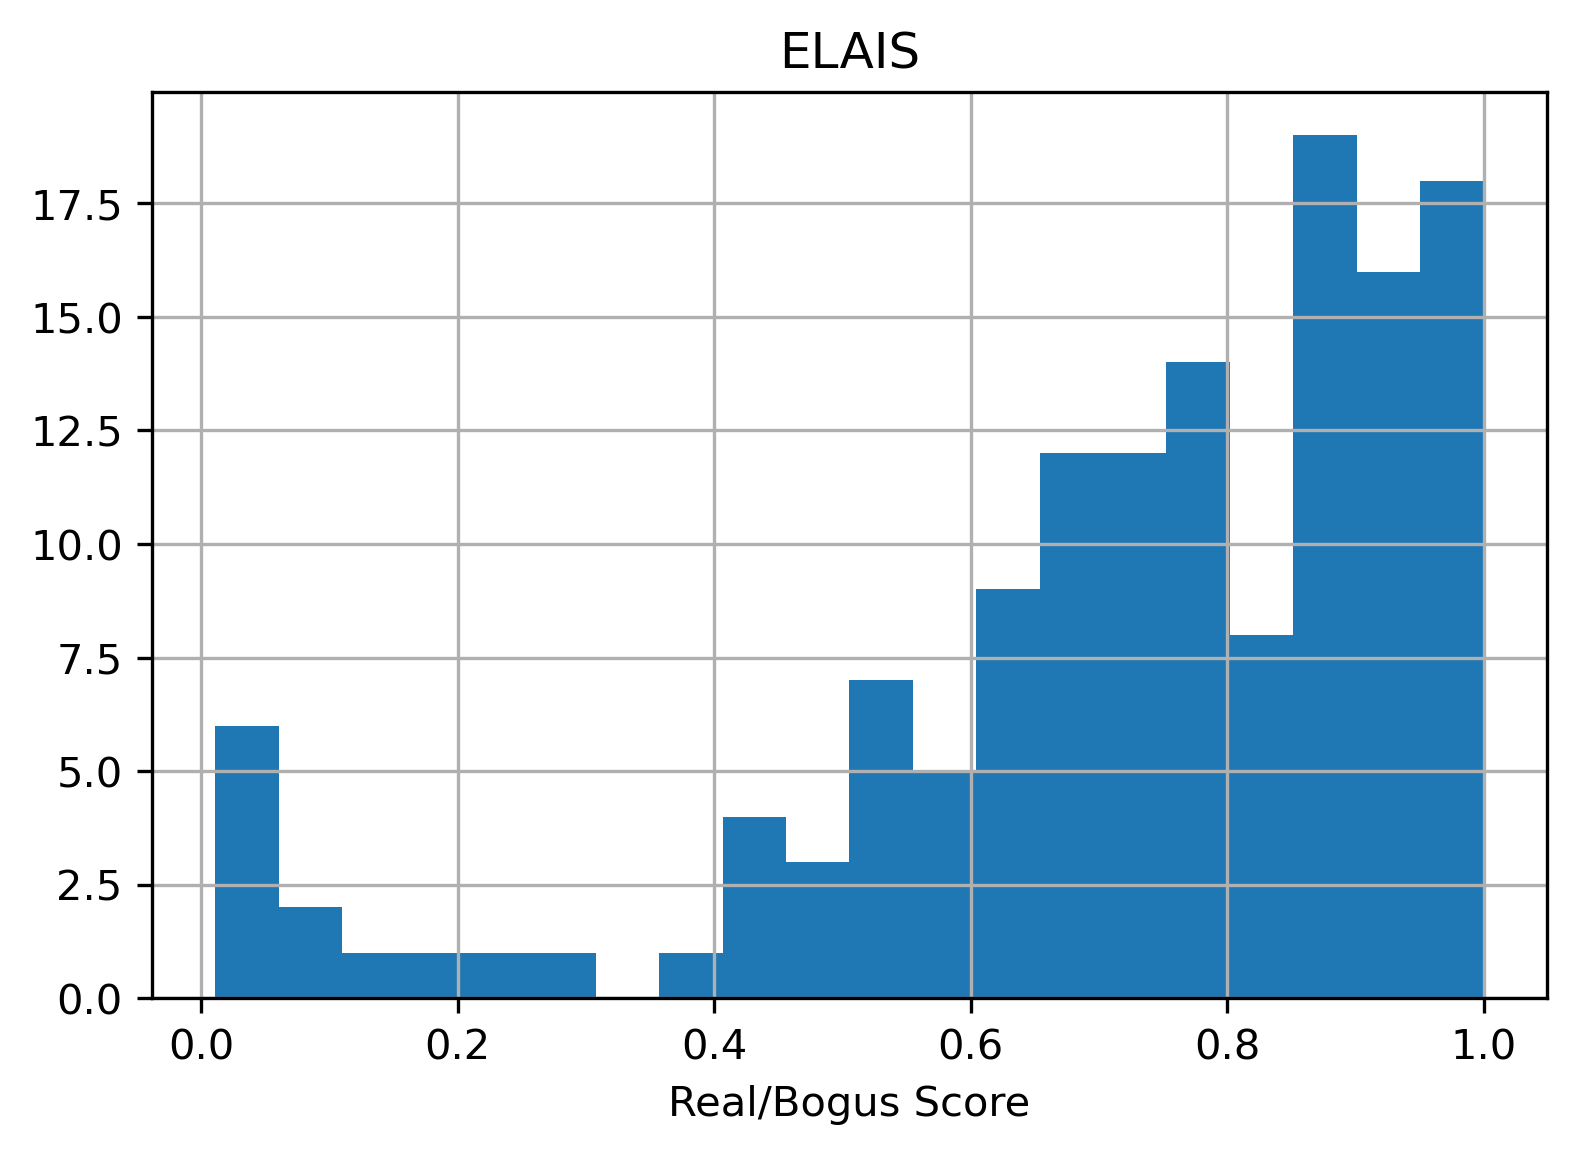
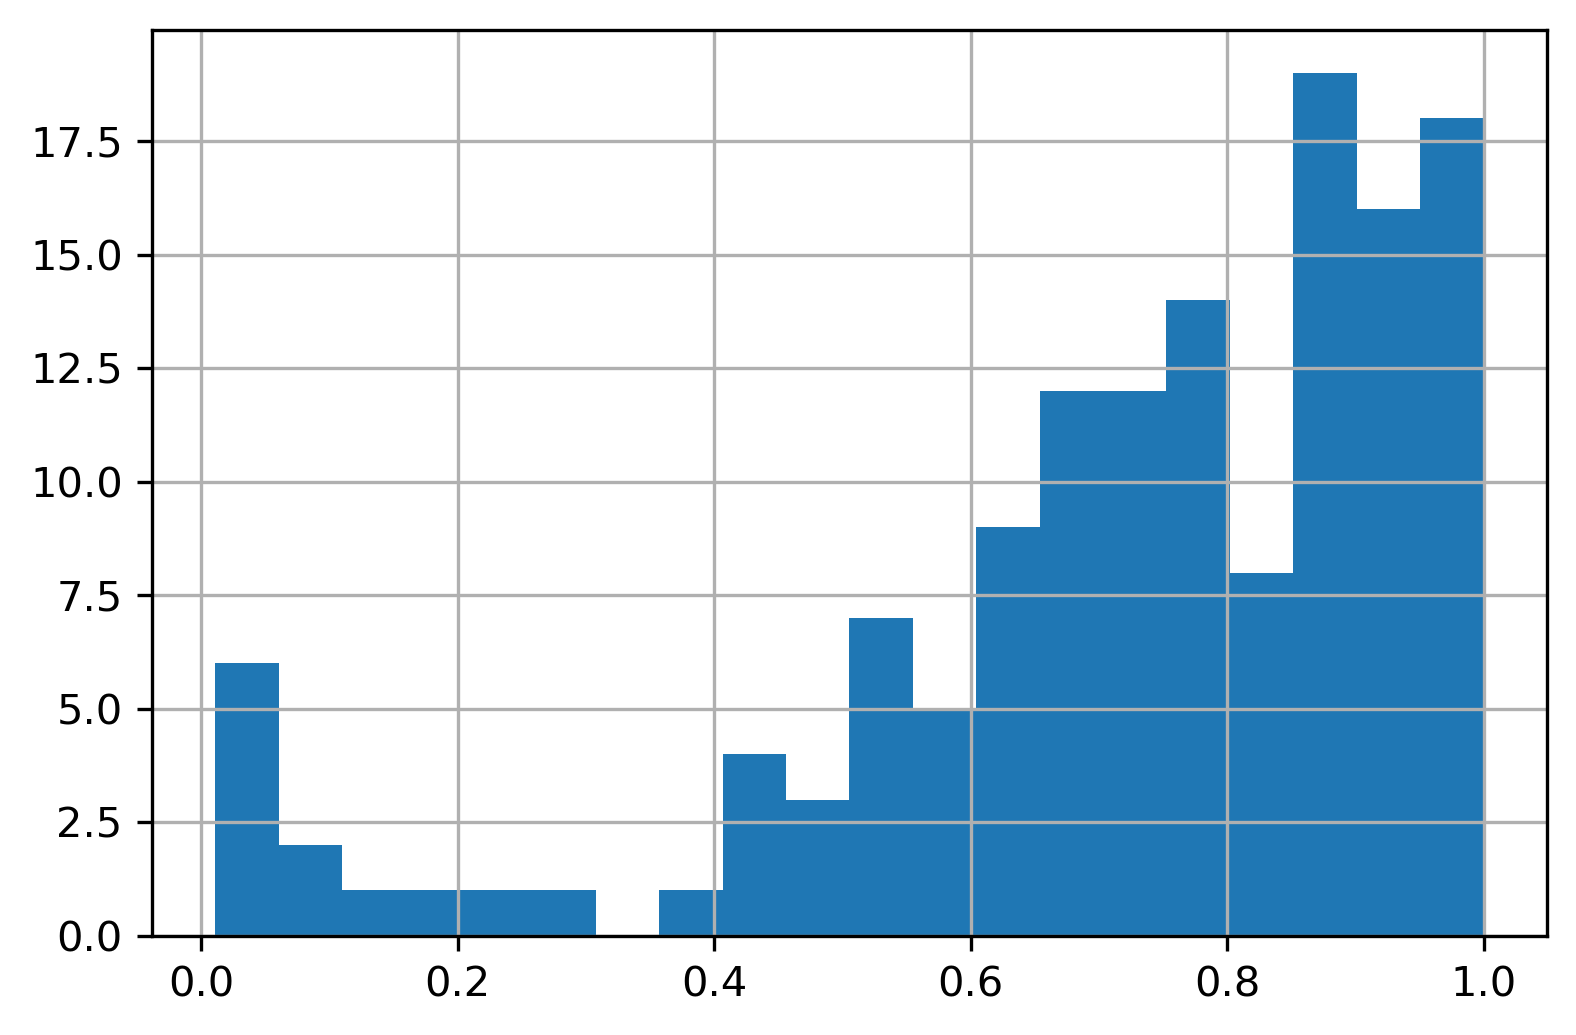
6-22 report

diff --git a/Weekly Reports/6_22_2022.md b/Weekly Reports/6_22_2022.md
@@ -23,9 +23,7 @@ The spatial distribution of the flare candidates in each field is shown in Fig 1
 
 ![](https://github.com/RileyWClarke/Flarubin/blob/main/Figures/decam_coords.png?raw=true)
 
-![](https://github.com/RileyWClarke/Flarubin/blob/main/Figures/cosmos_rb.png?raw=true)
-
-![](https://github.com/RileyWClarke/Flarubin/blob/main/Figures/elais_rb.png?raw=true)
+![](https://github.com/RileyWClarke/Flarubin/blob/main/Figures/rbdist.png?raw=true)
 
 ![](https://github.com/RileyWClarke/Flarubin/blob/main/Figures/COSMOS_rb0.99_deltacoord.png?raw=true)
 
